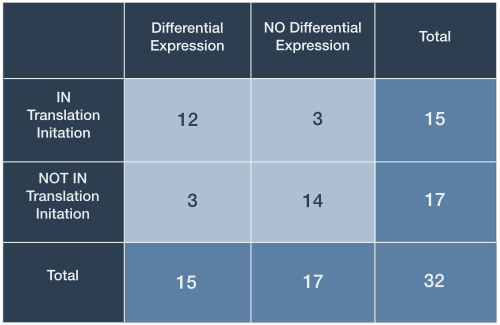
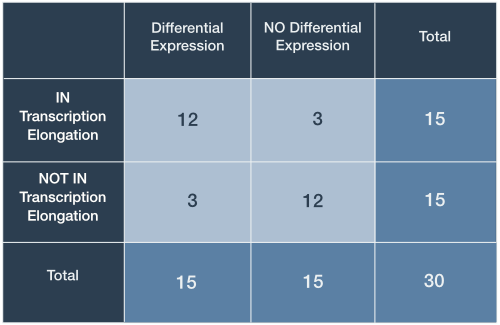
Augmented the Fisher's primer with R and cleanup

diff --git a/primers/statistics/fishers_exact_test/index.html b/primers/statistics/fishers_exact_test/index.html
@@ -130,7 +130,8 @@
       <li class="list-unstyled"><a href="#goals">I. Goals</a></li>
       <li class="list-unstyled"><a href="#setup">II. Setup for enrichment analysis</a></li>
       <li class="list-unstyled"><a href="#fishersExactTest">III. Fisher’s Exact Test</a></li>
-      <li class="list-unstyled"><a href="#caveats">IV. Caveats</a></li>
+      <li class="list-unstyled"><a href="#calculationsInR">IV. Calculations in R</a></li>
+      <li class="list-unstyled"><a href="#caveats">V. Caveats</a></li>
     </ul>
   </li>
 </ul>
@@ -139,38 +140,41 @@
 
 <h2 id="i-goals"><a href="#goals" name="goals">I. Goals</a></h2>
 
-<p>Large-scale gene analyses can result in lists of genes whose immediate relevance to the study objective may be unclear. Approaches collectively referred to as ‘enrichment’ or ‘overrepresentation’ analyses all aim to distill from more meaningful biological themes from reams of biological data.</p>
+<p>High-throughput experimental measurements can result in lists of genes that are difficult to interpret at face value. ‘Enrichment analyses’ aim to draw out meaningful, potentially interesting biological themes from the gene-based measurements.</p>
 
-<p>Enrichment methods source candidate sets of genes that share attributes such as membership in a pathway or location within a cell. Gene sets are defined in curated biological databases such as the classes described within the Gene Ontology <a href="http://geneontology.org/">GO</a> (Ashburner 2000). These sets are tested one after another to determine whether the constituents are overrepresented (or depleted) in a target gene list typically derived from experiments.</p>
+<p>In general, enrichment methods require a collection of candidate sets of genes with shared attributes, for instance membership in a pathway or location on a chromosome. Gene sets are curated in biological databases, most notably the classes described within the Gene Ontology <a href="http://geneontology.org/">GO</a> (Ashburner 2000). One class of enrichment analysis methods seek to identify those gene sets that share an unusually large number of genes with a list derived from experimental measurements. Below, we describe Fisher’s Exact Test, which is a classic statistical test for determining what ‘unusually large’ might be.</p>
 
-<p>Our overarching goal is to describe the theory underlying many of the enrichment software tools currently in use (Khatri 2012). We use the concrete example of assessing GO term enrichment in the output of a large-scale gene expression analysis although the approaches are found in many other types of analyses.  By then end of this discussion you should:</p>
+<p>By then end of this primer you will:</p>
 
 <ol>
-  <li>Be familiar with how an enrichment analysis is structured</li>
-  <li>Be familiar with rationale underlying Fisher’s Exact Test</li>
+  <li>Be familiar with how Fisher’s Exact Test is used to determine enrichment</li>
   <li>Be aware of the meaning of a p-value arising from Fisher’s Exact Test</li>
 </ol>
 
 <h2 id="ii-setup-for-enrichment-analysis"><a href="#setup" name="setup">II. Setup for enrichment analysis</a></h2>
 
 <h3 id="contingency-tables">Contingency tables</h3>
-<p>Data from experiments can often be classified in several ways, for example, by age, gender and treatment response. One may wonder if the proportions within one category are associated with the proportions of another category. For example, it is common to ask if individuals treated with a drug respond more often than those with a placebo. In the case where there are two categories of interest the data can be displayed as a 2-by-2 <em>contingency table</em>.</p>
+
+<p>Data from experiments can often be classified in several ways, for example, by age, gender and treatment response. One may wonder if the proportions within one category are associated with the proportions of another category. In the case where there are two categories of interest the data can be displayed as a 2-by-2 <em>contingency table</em>.</p>
 
 <blockquote>
   <p>A <em>contingency table</em> shows the distribution of one variable in rows and another in columns, used to study the association between the two variables.</p>
 </blockquote>
 
 <h3 id="a-gene-expression-study">A gene expression study</h3>
-<p>Suppose we undertake a gene expression analysis comparing individuals with cancer to healthy individuals and derive a list of differentially expressed genes. For the purposes of this discussion let us restrict an enrichment analysis to a single gene set, specifically genes involved in the GO biological process <a href="http://amigo.geneontology.org/amigo/term/GO:0006413">‘translation initiation’</a>. Table 1 depicts a contingency table corresponding to some hypothetical experimental results.</p>
+
+<p>Suppose we had measured gene expression upon treatment of cells with a drug. We could ask the question: Is there any association between differentially expressed genes and annotations for any given GO term? In other words, are the changes in gene expression enriched for any gene set from GO?</p>
+
+<p>For the purposes of this discussion let us restrict our attention to a single gene set, specifically genes annotated with the GO biological process term <a href="http://amigo.geneontology.org/amigo/term/GO:0006354">‘DNA-templated transcription, elongation (GO:0006354)’</a>. Table 1 depicts a contingency table corresponding to some highly-simplified  experimental results.</p>
 
 <p><strong>Table 1. Contingency table for gene expression data</strong>
 <img src="table_1.png" alt="image" /></p>
 
-<p>In this case, the expression of 32 genes has been analyzed: 15 differentially expressed genes were identified and 15 genes were associated with the GO annotation ‘translation initiation’. The totals for differential expression and gene set membership are the <em>marginal values</em>, as they lie on the periphery of our 2-by-2 table.</p>
+<p>In this case, the expression of 30 genes has been analyzed: 15 differentially expressed genes were identified and 15 genes were associated with the GO term ‘‘DNA-templated transcription, elongation’. The totals for differential expression and gene set membership are the <em>marginal values</em>, as they lie on the periphery of our 2-by-2 table.</p>
 
 <p>The middle cells contain <em>joint values</em> because they represent genes falling under two categories (Table 1, light blue). Here, 12 genes are both differentially expressed and tagged with ‘translation initiation’. This seems like a large proportion of the marginal differentially expressed gene total (12/15 differentially expressed genes) and our intuition might lead us to the opinion that this is a result worth following up on…</p>
 
-<p>We seemed quite confident that observing 12 differentially expressed genes out of 15 in the gene set seemed like enough evidence to suggest that our ovarian cancer subtypes differed in the state of their translation initiation gene expression. However, what would we think if only 9 met both criteria? Furthermore, a more realistic large-scale expression analysis might involved thousands of genes observed rather than just 32. It is clear that we yearn for a way to make our decisions less arbitrary and more scaleable.</p>
+<p>We seemed quite confident that observing 12 differentially expressed genes out of 15 in the gene set seemed like enough evidence to suggest that our drug induced expression changes associated with transcription elongation. However, what would we think if only 9 met both criteria? Furthermore, a more realistic large-scale expression analysis might involved thousands of genes observed rather than just 30. It is clear that we yearn for a way to make our decisions less arbitrary.</p>
 
 <h2 id="iii-fishers-exact-test"><a href="#fishersExactTest" name="fishersExactTest">III. Fisher’s Exact Test</a></h2>
 
@@ -182,16 +186,16 @@
   <li>There is no association between categorical values</li>
 </ol>
 
-<p>These assumptions constitute the ‘null hypothesis’ (<script type="math/tex">H_0</script>): We take the <em>a priori</em> stance that the categories are independent. We simply don’t know the ground truth of whether there exists a relationship between cancer-related gene expression and genes involved in ‘translation initiation’. Consequently, we take our actual contingency table data and calculate the probability that this or any table with more extreme joint values (unobserved) would occur under the null hypothesis. A small probability is interpreted as a discrepancy between the data and the null hypothesis of no association between variables. These calculated probabilities are referred to as ‘p-values’.</p>
+<p>These assumptions constitute the ‘null hypothesis’ (<script type="math/tex">H_0</script>): We take the <em>a priori</em> stance that the categories are independent. We simply don’t know the ground truth of whether there exists a relationship between the drug-induced gene expression changes and genes involved in transcription elongation. Consequently, we take our actual contingency table data and calculate the probability that this or any table with more extreme joint values (unobserved) would occur under the null hypothesis. A small probability is interpreted as a discrepancy between the data and the null hypothesis of no association between variables. These calculated probabilities are referred to as ‘p-values’.</p>
 
 <blockquote>
   <p>Smaller p-values point to an interesting result only if all of the assumptions used to compute the p-value are valid</p>
 </blockquote>
 
 <h3 id="the-possibilities-are-not-endless">The possibilities are not endless</h3>
-<p>Let us return to the cancer gene expression analysis example. Fisher’s Exact Test provides a statistical basis upon which to establish how extreme our particular table of observations are <strong>in relation to all possible ones that could have given those same marginal totals given no association between categories</strong>. With this in mind, we simply enumerate the different joint values that are possible for the same marginal totals (Figure 1).</p>
+<p>Let us return to the gene expression analysis example. Fisher’s Exact Test provides a statistical basis upon which to establish how extreme our particular table of observations are <strong>in relation to all possible ones that could have given those same marginal totals given no association between categories</strong>. With this in mind, we simply enumerate the different joint values that are possible for the same marginal totals (Figure 1).</p>
 
-<p><img src="figure_1.jpg" alt="image" /></p>
+<p><img src="figure_1.png" alt="image" /></p>
 <div class="card bg-light">
   <div class="card-body">
     <p class="card-text">
@@ -201,28 +205,28 @@
 </div>
 
 <h3 id="let-us-count-the-ways">Let us count the ways</h3>
-<p>There may exist 16 possible arrangements of joint values for fixed marginal totals, however, this does not imply that each is equally likely. To see why, consider the arrangement in the first row and second column of (Figure 1; R1-C2): This arrangement is reproduced in Table 2 and shows 1 differentially expressed gene that is a member of the gene set leaving 14 outside. To calculate the probability of this (unobserved) arrangement under the null hypothesis, we will make use of the rules for <a href="/guide/primers/statistics/permutations_combinations/">combinations</a>.</p>
+<p>There may exist 16 possible arrangements of joint values for fixed marginal totals, however, this does not imply that each is equally likely. To see why, consider the arrangement in the first row and second column of (Figure 1; R1-C2): This arrangement is reproduced in Table 2 and shows 1 differentially expressed gene that is a member of the gene set. To calculate the probability of this (unobserved) arrangement under the null hypothesis, we will make use of the rules for <a href="/guide/primers/statistics/permutations_combinations/">combinations</a>.</p>
 
 <p><strong>Table 2. Contingency table for arrangement R1-C2</strong>
 <img src="table_2.png" alt="image" class="img-responsive slim left" /></p>
 
-<p>R.A. Fisher’s insight was to leverage the rules for enumerating combinations to derive an exact probability for any given contingency table under the null hypothesis. For our 32 genes of which 15 are differentially expressed gene and 15 are within a gene set, we must first calculate the ways that each of the joint values could have arisen simply by randomly selecting genes. We illustrate the process for the arrangement in Table 2 and the process proceeds by calculating three values, one for each row:</p>
+<p>R.A. Fisher’s insight was to leverage the rules for enumerating combinations to derive an exact probability for any given contingency table under the null hypothesis. Looking back at Table I, we must first calculate the ways that each of the joint values could have arisen simply by randomly selecting genes. We illustrate the process for the arrangement in Table 2 and the process proceeds by calculating three values, one for each row:</p>
 
 <ol>
   <li>Ways to select 1 differentially expressed gene <em>without replacement</em> out of 15 tagged IN the gene set</li>
-  <li>Ways to select 14 differentially expressed genes <em>without replacement</em> from 17 tagged NOT IN the gene set</li>
-  <li>Ways to select 15 differentially expressed genes <em>without replacement</em> from 32 total genes</li>
+  <li>Ways to select 14 differentially expressed genes <em>without replacement</em> from 15 tagged NOT IN the gene set</li>
+  <li>Ways to select 15 differentially expressed genes <em>without replacement</em> from 30 total genes</li>
 </ol>
 
-<p>These three values are sufficient to calculate the probability of any particular contingency table. The first number represents the ways 1 differentially expressed gene can be selected from 15 possible ‘IN Translation Initiation’ (Figure 2, top left). In statistical jargon, this is described as ‘15 Choose 1’. There are exactly 15 ways this can be done: One for each of the 15 genes with the tag.</p>
+<p>These three values are sufficient to calculate the probability of any particular contingency table. The first number represents the ways 1 differentially expressed gene can be selected from 15 possible ‘IN Transcription elongation’ (Figure 2, top left). In statistical jargon, this is described as ‘15 choose 1’. There are exactly 15 ways this can be done: One for each of the 15 genes with the tag.</p>
 
-<p>Similarly, there are ‘17 Choose 14’ or 680 ways that 14 differentially expressed genes can be selected from 17 ‘NOT IN Translation Initiation’. To see this, consider the 17 genes labeled 16 through 32 in the top right group of Figure 2. We can choose 14 genes by selecting those labelled 16 through 29. Alternatively, one can also select 16 through 28 then 30 or for that matter 16 through 28 then 31 and so on. The third number ‘32 Choose 15’ is precisely 565 722 720.</p>
+<p>Similarly, there are ‘15 choose 14’ or 15  ways that 14 differentially expressed genes can be selected from 15 ‘NOT IN Transcription elongation’. To see this, consider the 15 genes labeled 16 through 30 in the top right group of Figure 2. We can choose 14 genes by selecting those labelled 16 through 29. Alternatively, one can also select 16 through 28 then 30 and so on. The third number ‘30 Choose 15’ is precisely 155 117 520.</p>
 
-<p><img src="figure_2.jpg" alt="image" /></p>
+<p><img src="figure_2.png" alt="image" /></p>
 <div class="card bg-light">
   <div class="card-body">
     <p class="card-text">
-      <strong>Figure 2. Calculations underlying the probability of a contingency table.</strong> The three groups correspond to the marginal totals for each row in Table 2. A contingency table's total probability is defined by the three probabilities of choosing differentially expressed genes from each group: 1 differentially expressed gene from 'IN Translation Initiation'; 14 from 'NOT IN Translation Initiation'; and 15 differentially expressed genes from the 32 total genes.
+      <strong>Figure 2. Calculations underlying the probability of a contingency table.</strong> The three groups correspond to the marginal totals for each row in Table 2. A contingency table's total probability is defined by the three probabilities of choosing differentially expressed genes from each group: 1 differentially expressed gene from 'IN Transcription elongation'; 14 from 'NOT IN Transcription elongation'; and 15 differentially expressed genes from the 30 total genes.
     </p>
   </div>
 </div>
@@ -232,8 +236,8 @@
 <script type="math/tex; mode=display">% <![CDATA[
 \begin{equation*}
   \begin{split}
-    \frac{(\text{15 Choose 1})\cdot(\text{17 Choose 14})}{(\text{32 Choose 15})}& = \frac{15\cdot680}{565 722 720}\\
-    & = 0.000018
+    \frac{(\text{15 Choose 1})\cdot(\text{15 Choose 14})}{(\text{30 Choose 15})}& = \frac{15\cdot15}{155 117 520}\\
+    & = 1.45\cdot10^{-6}
   \end{split}
 \end{equation*} %]]></script>
 
@@ -241,9 +245,9 @@
 
 <h3 id="what-are-the-probabilities">What are the probabilities?</h3>
 
-<p>At this point we have the basic building blocks to describe Fisher’s Exact Test. Referring to our HGS-OvCa example, we have in hand the probability of our contingency table of observed joint values (Table 2). Fisher’s Exact Test amounts to summing the probability of observing our table of observed joint values <strong>in addition to those more extreme than our table</strong>. The possible tables and their respective probabilities are displayed in red Figure 3.</p>
+<p>At this point we have the basic building blocks to describe Fisher’s Exact Test. Fisher’s Exact Test amounts to summing the probability of observing our table of observed joint values <strong>in addition to those more extreme than our table</strong>. The possible tables and their respective probabilities are displayed in red Figure 3.</p>
 
-<p><img src="figure_3.jpg" alt="image" /></p>
+<p><img src="figure_3.png" alt="image" /></p>
 <div class="card bg-light">
   <div class="card-body">
     <p class="card-text">
@@ -253,34 +257,118 @@
 </div>
 
 <h3 id="one-sided-tests">One-Sided tests</h3>
-<p>Figure 3 shows that our observed result in Table 1 has a probability equal to 0.0005469 (Figure 3, R4-C1). The one-sided test requires us to sum the probabilities of the observed table and those unobserved tables which possess more than 12 genes the are differentially expressed (DE) and IN the gene set (Figure 3, red)</p>
+<p>Figure 3 shows that our observed result in Table 1 has a probability equal to 1.33E-03 (Figure 3, R4-C1). The one-sided test requires us to sum the probabilities of the observed table and those unobserved tables which possess more than 12 genes the are differentially expressed (DE) and IN the gene set (Figure 3, red)</p>
 
 <script type="math/tex; mode=display">% <![CDATA[
 \begin{equation*}
   \begin{split}
     p& = \sum\limits_{\text{DE & IN}\geq12}p_i\\
-     & = 0.0005469+0.0000252+0.0000005+0.0000000\\
-     & = 0.0005726
+     & = 1.33\cdot10^{-3}+7.11\cdot10^{-5}+1.45\cdot10^{-6}+6.45\cdot10^{-9}\\
+     & = 0.001407159\\
+     & \simeq 0.0014
   \end{split}
 \end{equation*} %]]></script>
 
-<p>From this result, we claim that the probability of our observed data or that more extreme under the assumption that there is no association between expression and gene set membership is 0.0005726. Whether this represents an interesting discrepancy from the null hypothesis, an experiment worth repeating, or an ‘enrichment’ of genes in the set amongst differentially expressed genes is left up to the researcher’s interest and expertise.</p>
+<p>From this result, we claim that the probability of our observed data or that more extreme under the assumption that there is no association between expression and gene set membership is 0.0014. Whether this represents an interesting discrepancy from the null hypothesis, an experiment worth repeating, or an ‘enrichment’ of genes in the set amongst differentially expressed genes is left up to the researcher’s interest and expertise.</p>
 
 <h3 id="two-sided-tests">Two-Sided tests</h3>
-<p>We have not yet considered the possibility that differentially expressed genes may contain fewer members of the gene set than would be expected if genes were sampled randomly, that is, differentially expressed genes are depleted for ‘IN Translation Initiation’. The two-sided Fisher’s Exact Test accounts for both enrichment and depletion. Although there are several flavours of the test (Rivals 2006), we demonstrate an approach whereby the tables with probabilities smaller than our observed data (<script type="math/tex">p=0.0005469</script>) are summed</p>
+
+<p>We have not yet considered the possibility that differentially expressed genes may contain fewer members of the gene set than would be expected if genes were sampled randomly, that is, differentially expressed genes are underrepresented for ‘IN Transcription elongation’. The two-sided Fisher’s Exact Test accounts for both enrichment and depletion. Although there are several flavours of the test (Rivals 2006), we demonstrate an approach whereby the tables with probabilities smaller than our observed data are summed</p>
 
 <script type="math/tex; mode=display">% <![CDATA[
 \begin{equation*}
   \begin{split}
-    p& = \sum\limits_{p_i\leq0.0005469}p_i\\
-     & = (0.0000002+0.0000180+0.0004417)+0.0005726\\
-     & = 0.0010325
+    p& = \sum\limits_{p_i\leq0.001407159}p_i\\
+     & = 2\cdot(1.33\cdot10^{-3}+7.11\cdot10^{-5}+1.45\cdot10^{-6}+6.45\cdot10^{-9})\\
+     & = 0.002814318\\
+     & \simeq 0.0028
   \end{split}
 \end{equation*} %]]></script>
 
 <p>This result is just under double the one-sided p-value, resulting from an ‘uneven’ distribution of p-values about the mean. Once again, whether this represents a valuable discrepancy from the null hypothesis and an observation worth following up on is left up to the discretion of the researcher.</p>
 
-<h2 id="iv-caveats"><a href="#caveats" name="caveats">IV. Caveats</a></h2>
+<h2 id="iv-calculations-in-r"><a href="#calulationsInR" name="calculationsInR">IV. Calculations in R</a></h2>
+
+<p>The <a href="https://www.r-project.org/">R project</a> for statistical computing is popular software within the bioinformatics community because of it’s wide support and many helpful packages that facilitate common analyses. We can easily perform the calculations described above using the built-in <a href="https://stat.ethz.ch/R-manual/R-devel/library/stats/html/00Index.html"><code class="highlighter-rouge">stat</code></a> package which have functions for the <code class="highlighter-rouge">Hypergeometric</code> distribution:</p>
+
+<div class="highlighter-rouge"><div class="highlight"><pre class="highlight"><code>Hypergeometric {stats}	R Documentation
+# The Hypergeometric Distribution
+
+## Description
+
+Density, distribution function, quantile function and random generation for the hypergeometric distribution.
+
+## Usage
+
+dhyper(x, m, n, k, log = FALSE)
+phyper(q, m, n, k, lower.tail = TRUE, log.p = FALSE)
+qhyper(p, m, n, k, lower.tail = TRUE, log.p = FALSE)
+rhyper(nn, m, n, k)
+
+## Arguments
+
+x, q
+vector of quantiles representing the number of white balls drawn without replacement from an urn which contains both black and white balls.
+m
+the number of white balls in the urn.
+n
+the number of black balls in the urn.
+k
+the number of balls drawn from the urn.
+...
+</code></pre></div></div>
+
+<p>It may not be obvious how to translate the description of arguments for the Hypergeometric density function <code class="highlighter-rouge">dhyper</code> to our particular case. Table 3 below summarizes what these mean in terms of our contingency table.</p>
+
+<p><strong>Table 3. Arguments for the R stat package function dhyper</strong></p>
+
+<p><img src="table_3.png" alt="image" /></p>
+
+<p>With this knowledge in hand, it is trivial to reproduce the p-values described previously.</p>
+
+<figure class="highlight"><pre><code class="language-r" data-lang="r"><span class="c1"># Initialize variables</span><span class="w">
+</span><span class="n">m</span><span class="w"> </span><span class="o">&lt;-</span><span class="w"> </span><span class="m">15</span><span class="w">       </span><span class="c1"># Genes IN GO term</span><span class="w">
+</span><span class="n">n</span><span class="w"> </span><span class="o">&lt;-</span><span class="w"> </span><span class="m">15</span><span class="w">       </span><span class="c1"># Genes NOT IN GO term</span><span class="w">
+</span><span class="n">k</span><span class="w"> </span><span class="o">&lt;-</span><span class="w"> </span><span class="m">15</span><span class="w">       </span><span class="c1"># Gene hits, that is, differentially expressed</span><span class="w">
+</span><span class="n">x</span><span class="w"> </span><span class="o">&lt;-</span><span class="w"> </span><span class="nf">c</span><span class="p">(</span><span class="m">0</span><span class="o">:</span><span class="m">15</span><span class="p">)</span><span class="w">  </span><span class="c1"># Genes both IN GO term and differentially expressed 'hits'</span><span class="w">
+
+</span><span class="c1"># Use the dhyper built-in function for hypergeometric density</span><span class="w">
+</span><span class="n">probabilities</span><span class="w"> </span><span class="o">&lt;-</span><span class="w"> </span><span class="n">dhyper</span><span class="p">(</span><span class="n">x</span><span class="p">,</span><span class="w"> </span><span class="n">m</span><span class="p">,</span><span class="w"> </span><span class="n">n</span><span class="p">,</span><span class="w"> </span><span class="n">k</span><span class="p">,</span><span class="w"> </span><span class="n">log</span><span class="w"> </span><span class="o">=</span><span class="w"> </span><span class="kc">FALSE</span><span class="p">)</span><span class="w">
+</span><span class="n">probabilities</span></code></pre></figure>
+
+<figure class="highlight"><pre><code class="language-text" data-lang="text">##  [1] 6.446725e-09 1.450513e-06 7.107514e-05 1.334633e-03 1.201170e-02
+##  [6] 5.813662e-02 1.614906e-01 2.669539e-01 2.669539e-01 1.614906e-01
+## [11] 5.813662e-02 1.201170e-02 1.334633e-03 7.107514e-05 1.450513e-06
+## [16] 6.446725e-09</code></pre></figure>
+
+<p>According to Figure 3, our one-sided p-value is the sum of the probabilities of a result at least as extreme as that observed, given the null hypothesis.</p>
+
+<figure class="highlight"><pre><code class="language-r" data-lang="r"><span class="c1"># Calculate the one-sided p-value for 12 or more genes both DE and IN GO term.</span><span class="w">
+</span><span class="n">pvalue</span><span class="w"> </span><span class="o">&lt;-</span><span class="w"> </span><span class="nf">sum</span><span class="p">(</span><span class="n">probabilities</span><span class="p">[</span><span class="m">13</span><span class="o">:</span><span class="m">16</span><span class="p">])</span><span class="w">
+</span><span class="n">pvalue</span></code></pre></figure>
+
+<figure class="highlight"><pre><code class="language-text" data-lang="text">## [1] 0.001407165</code></pre></figure>
+
+<p>Let’s plot the results, with our extreme values included in the p-value highlighted in red.</p>
+
+<figure class="highlight"><pre><code class="language-r" data-lang="r"><span class="c1"># Bar plot</span><span class="w">
+</span><span class="n">library</span><span class="p">(</span><span class="n">ggplot2</span><span class="p">)</span><span class="w">
+</span><span class="n">data</span><span class="w"> </span><span class="o">&lt;-</span><span class="w"> </span><span class="n">data.frame</span><span class="p">(</span><span class="w"> </span><span class="n">x</span><span class="w"> </span><span class="o">=</span><span class="w"> </span><span class="n">x</span><span class="p">,</span><span class="w"> </span><span class="n">y</span><span class="w"> </span><span class="o">=</span><span class="w"> </span><span class="n">probabilities</span><span class="w"> </span><span class="p">)</span><span class="w">
+</span><span class="n">ggplot</span><span class="p">(</span><span class="n">data</span><span class="p">,</span><span class="w"> </span><span class="n">aes</span><span class="p">(</span><span class="n">x</span><span class="o">=</span><span class="n">factor</span><span class="p">(</span><span class="n">x</span><span class="p">),</span><span class="w"> </span><span class="n">y</span><span class="o">=</span><span class="n">y</span><span class="p">))</span><span class="w"> </span><span class="o">+</span><span class="w">
+</span><span class="n">theme</span><span class="p">(</span><span class="n">axis.text</span><span class="o">=</span><span class="n">element_text</span><span class="p">(</span><span class="n">size</span><span class="o">=</span><span class="m">14</span><span class="p">),</span><span class="w">
+  </span><span class="n">axis.title</span><span class="o">=</span><span class="n">element_text</span><span class="p">(</span><span class="n">size</span><span class="o">=</span><span class="m">18</span><span class="p">,</span><span class="n">face</span><span class="o">=</span><span class="s2">"bold"</span><span class="p">),</span><span class="w">
+  </span><span class="n">axis.title.x</span><span class="o">=</span><span class="n">element_text</span><span class="p">(</span><span class="n">margin</span><span class="o">=</span><span class="n">margin</span><span class="p">(</span><span class="m">20</span><span class="p">,</span><span class="m">0</span><span class="p">,</span><span class="m">0</span><span class="p">,</span><span class="m">0</span><span class="p">)),</span><span class="w">
+  </span><span class="n">axis.title.y</span><span class="o">=</span><span class="n">element_text</span><span class="p">(</span><span class="n">margin</span><span class="o">=</span><span class="n">margin</span><span class="p">(</span><span class="m">0</span><span class="p">,</span><span class="m">20</span><span class="p">,</span><span class="m">0</span><span class="p">,</span><span class="m">0</span><span class="p">))</span><span class="w">
+</span><span class="p">)</span><span class="w"> </span><span class="o">+</span><span class="w">
+</span><span class="n">geom_bar</span><span class="p">(</span><span class="n">stat</span><span class="o">=</span><span class="s2">"identity"</span><span class="p">,</span><span class="w"> </span><span class="n">fill</span><span class="o">=</span><span class="n">ifelse</span><span class="p">(</span><span class="n">data</span><span class="o">$</span><span class="n">x</span><span class="w"> </span><span class="o">&lt;</span><span class="w"> </span><span class="m">12</span><span class="p">,</span><span class="w">
+                                 </span><span class="n">rgb</span><span class="p">(</span><span class="m">52</span><span class="p">,</span><span class="w"> </span><span class="m">73</span><span class="p">,</span><span class="w"> </span><span class="m">94</span><span class="p">,</span><span class="w"> </span><span class="n">maxColorValue</span><span class="o">=</span><span class="m">255</span><span class="p">),</span><span class="w">
+                                 </span><span class="n">rgb</span><span class="p">(</span><span class="m">231</span><span class="p">,</span><span class="w"> </span><span class="m">76</span><span class="p">,</span><span class="w"> </span><span class="m">60</span><span class="p">,</span><span class="w"> </span><span class="n">maxColorValue</span><span class="o">=</span><span class="m">255</span><span class="p">)),</span><span class="w">
+                               </span><span class="n">colour</span><span class="o">=</span><span class="s2">"black"</span><span class="p">)</span><span class="w"> </span><span class="o">+</span><span class="w">
+</span><span class="n">labs</span><span class="p">(</span><span class="n">x</span><span class="w"> </span><span class="o">=</span><span class="w"> </span><span class="s2">"DE genes IN GO term"</span><span class="p">,</span><span class="w"> </span><span class="n">y</span><span class="w"> </span><span class="o">=</span><span class="w"> </span><span class="s2">"Probability"</span><span class="p">)</span></code></pre></figure>
+
+<p><img src="/guide/public/R/primers/statistics/fishers_exact_test/unnamed-chunk-3-1.png" alt="plot of chunk unnamed-chunk-3" /></p>
+
+<h2 id="v-caveats"><a href="#caveats" name="caveats">V. Caveats</a></h2>
 <p>There has been much discussion with regards to the assumptions, limitations, and overall relevance of this class of procedures (Khatri 2005, Goeman 2007). We leave these more nuanced discussions for the reader to follow.</p>
 
 <hr />
